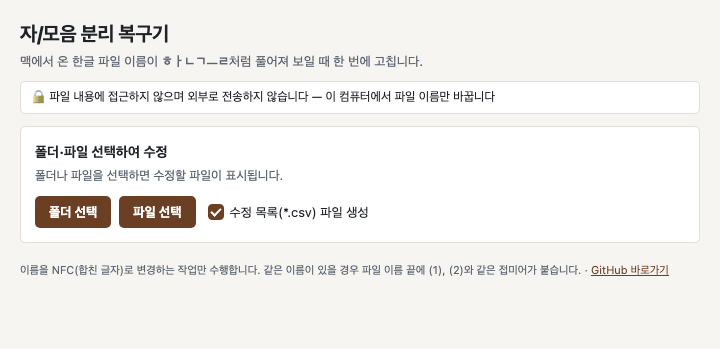
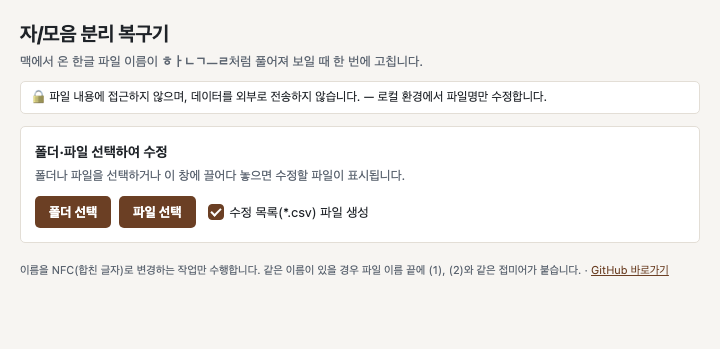
윈도우 프로그램 두 번째 피드백: 끌어다 놓기, 수정 전 저장 경로 줄 숨김 버그, 표 머리글 As is/To be/Status
- 버그: .csv-line의 display:flex가 hidden 속성을 덮어 수정 전부터 보였다 → [hidden] 규칙. 줄은 표 아래·버튼 위로
- 창에 파일·폴더 여러 개 끌어다 놓기(DragAndDrop.EnableFileDrop + runtime.OnFileDrop), 끌어 오는 동안 안내
- core.PlanFiles → PlanPaths(폴더는 안쪽과 자신까지), App.PreviewPaths/FixPaths. CSV는 첫 항목이 있는 폴더에
- 폴더 선택 창 제목에 "안의 파일은 선택한 뒤 목록에 표시됩니다"
- 문구 수정, As is 칸 글자 -2px, 버튼 줄 왼쪽 5px

Changed region(s): [[0.2444, 0.2579, 0.7639, 0.3152], [0.1833, 0.4871, 0.5806, 0.5158]]

diff --git a/web/app.js b/web/app.js
@@ -186,21 +186,34 @@ const inWails = typeof window.go !== "undefined";
 const goApp = () => window.go.main.App;
 let makeCSV = false; // "수정 목록(*.csv) 파일 생성" — 프로그램이 설정 파일에 기억한다
 
-async function wailsPick(kind) {
-  let picked;
-  try {
-    picked = kind === "folder" ? await goApp().ChooseFolder() : await goApp().ChooseFiles();
-  } catch (e) {
-    alert(`${kind === "folder" ? "폴더" : "파일"}를 열지 못했습니다: ` + e);
-    return;
+// kind: "folder"(폴더 선택) | "files"(파일 선택) | "drop"(창에 끌어다 놓기 — dropped에 경로 목록)
+async function wailsPick(kind, dropped) {
+  let picked = dropped;
+  if (!picked) {
+    try {
+      picked = kind === "folder" ? await goApp().ChooseFolder() : await goApp().ChooseFiles();
+    } catch (e) {
+      alert(`${kind === "folder" ? "폴더" : "파일"}를 열지 못했습니다: ` + e);
+      return;
+    }
   }
   if (!picked || picked.length === 0) return; // 취소
-  const first = kind === "folder" ? picked : picked[0];
+  const folder = kind === "folder";
+  const first = folder ? picked : picked[0];
   const sep = first.includes("\\") ? "\\" : "/";
-  const root = kind === "folder" ? picked : "";
-  const rel = (dir) => (root && dir.length > root.length ? dir.slice(root.length + 1) + sep : "");
+  // 표에 보일 경로: 폴더 선택이면 그 폴더 기준, 끌어다 놓은 폴더 안쪽이면 "그 폴더\…", 그 밖은 이름만
+  const bases = folder ? [picked] : picked;
+  const rel = (dir) => {
+    for (const b of bases) {
+      if (dir === b || dir.startsWith(b + sep)) {
+        const from = folder ? b.length + 1 : b.lastIndexOf(sep) + 1;
+        return dir.length >= from ? dir.slice(from) + sep : "";
+      }
+    }
+    return "";
+  };
   const fixPath = (p) => p.split(sep).map((s) => fixName(s).fixed).join(sep);
-  const plan = (await (kind === "folder" ? goApp().Preview(picked) : goApp().PreviewFiles(picked))) || [];
+  const plan = (await (folder ? goApp().Preview(picked) : goApp().PreviewPaths(picked))) || [];
   const items = plan.map((r) => ({ key: r.Dir + sep + r.From, prefix: fixPath(rel(r.Dir)), from: rel(r.Dir) + r.From }));
   items.forEach((it, i) => (it.to = it.prefix + plan[i].To));
   job = {
@@ -208,7 +221,7 @@ async function wailsPick(kind) {
     run: async () => {
       let res;
       try {
-        res = await (kind === "folder" ? goApp().FixAll(picked, makeCSV) : goApp().FixFiles(picked, makeCSV));
+        res = await (folder ? goApp().FixAll(picked, makeCSV) : goApp().FixPaths(picked, makeCSV));
       } catch (e) {
         $("summary").textContent = "수정하지 못했습니다: " + e;
         return;
@@ -230,22 +243,32 @@ async function wailsPick(kind) {
       }
     },
   };
-  const where = kind === "folder" ? `폴더: ${picked}` : `선택한 파일 ${picked.length}개 중`;
+  const where = folder ? `폴더: ${picked}` : `${kind === "drop" ? "끌어다 놓은" : "선택한"} 항목 ${picked.length}개 중`;
   show(items, items.length ? `수정할 파일 ${items.length}개 (${where})` : EMPTY);
 }
 
 // ── 연결 ───────────────────────────────────────────────────────────────
 if (inWails) {
   document.body.classList.add("app");
-  $("privacy").textContent = "🔒 파일 내용에 접근하지 않으며 외부로 전송하지 않습니다 — 이 컴퓨터에서 파일 이름만 바꿉니다";
+  $("privacy").textContent = "🔒 파일 내용에 접근하지 않으며, 데이터를 외부로 전송하지 않습니다. — 로컬 환경에서 파일명만 수정합니다.";
   $("mode-folder").hidden = false;
   $("mode-zip").hidden = true;
   $("folder-title").textContent = "폴더·파일 선택하여 수정";
-  $("folder-desc").textContent = "폴더나 파일을 선택하면 수정할 파일이 표시됩니다.";
+  $("folder-desc").textContent = "폴더나 파일을 선택하거나 이 창에 끌어다 놓으면 수정할 파일이 표시됩니다.";
   $("pick-app-files").hidden = false;
   $("csv-option").hidden = false;
   $("pick-folder").addEventListener("click", () => wailsPick("folder"));
   $("pick-app-files").addEventListener("click", () => wailsPick("files"));
+  // 창에 파일·폴더를 끌어다 놓기(여러 개). 경로는 Wails가 넘겨준다(main.go DragAndDrop.EnableFileDrop)
+  if (window.runtime && window.runtime.OnFileDrop) {
+    window.runtime.OnFileDrop((x, y, paths) => wailsPick("drop", paths), false);
+  }
+  let dragDepth = 0;
+  const isFiles = (e) => e.dataTransfer && [...e.dataTransfer.types].includes("Files");
+  const dragEnd = () => { dragDepth = 0; document.body.classList.remove("dragging"); };
+  window.addEventListener("dragenter", (e) => { if (isFiles(e)) { dragDepth++; document.body.classList.add("dragging"); } });
+  window.addEventListener("dragleave", (e) => { if (isFiles(e) && --dragDepth <= 0) dragEnd(); });
+  window.addEventListener("drop", dragEnd);
   goApp().GetSettings().then((s) => { makeCSV = !!(s && s.MakeCSV); $("make-csv").checked = makeCSV; }).catch(() => {});
   $("make-csv").addEventListener("change", (e) => {
     makeCSV = e.target.checked;

diff --git a/web/index.html b/web/index.html
@@ -50,7 +50,8 @@
       border: solid var(--accent-ink); border-width: 0 2px 2px 0; transform: rotate(45deg); }
     .check input:focus-visible { outline: 2px solid var(--accent); outline-offset: 2px; }
     .csv-line { display: flex; align-items: center; gap: 10px; background: var(--card); border: 1px solid var(--line);
-      border-radius: 5px; padding: 6px 6px 6px 12px; margin: 0 0 10px; font-size: 14px; }
+      border-radius: 5px; padding: 6px 6px 6px 12px; margin: 10px 0 0; font-size: 14px; }
+    .csv-line[hidden] { display: none; } /* display:flex가 hidden 속성을 덮지 않게 */
     .csv-line span { flex: 1; min-width: 0; word-break: break-all; color: var(--sub); }
     .csv-line b { color: var(--ink); font-weight: 400; }
     button.icon { flex: none; margin-left: auto; background: transparent; border: 1px solid var(--line); color: var(--ink);
@@ -64,10 +65,11 @@
     th { color: var(--sub); font-weight: 700; white-space: nowrap; }
     tr:last-child td { border-bottom: 0; }
     .from { color: var(--sub); }
+    td.from { font-size: calc(1em - 2px); }
     .st-done { color: var(--ok); font-weight: 700; } .st-skip { color: var(--warn); font-weight: 700; }
     .st-err { color: var(--err); font-weight: 700; }
     td.st { white-space: nowrap; }
-    #actions { margin-top: 14px; }
+    #actions { margin-top: 14px; padding-left: 5px; }
     footer { margin-top: 40px; font-size: 13px; color: var(--sub); }
     footer a { color: var(--accent); }
     /* 윈도우 프로그램(Wails) 안: 창이 작으니 글자·여백을 줄인다(2026-10-16 사용자 피드백 — 글자 약 2/3, 버튼 높이 3/4) */
@@ -88,6 +90,11 @@
     body.app th, body.app td { padding: 6px 10px; }
     body.app #actions { margin-top: 10px; }
     body.app footer { margin-top: 18px; font-size: 11px; }
+    /* 창에 파일을 끌어 오면 놓을 수 있다는 것을 보여 준다 */
+    #drop-hint { display: none; position: fixed; inset: 8px; z-index: 10; border: 2px dashed var(--accent); border-radius: 5px;
+      background: color-mix(in srgb, var(--bg) 97%, transparent); color: var(--ink); font-weight: 700;
+      place-items: center; text-align: center; pointer-events: none; }
+    body.dragging #drop-hint { display: grid; }
   </style>
 </head>
 <body>
@@ -121,15 +128,15 @@
 
   <section id="result">
     <p id="summary"></p>
+    <div class="table-wrap">
+      <table>
+        <thead><tr><th>As is</th><th>To be</th><th>Status</th></tr></thead>
+        <tbody id="rows"></tbody>
+      </table>
+    </div>
     <div class="csv-line" id="csv-line" hidden>
       <span>원본 이름 저장 경로: <b id="csv-path"></b></span>
       <button id="open-csv" class="icon" title="폴더 열기" aria-label="폴더 열기">📂</button>
-    </div>
-    <div class="table-wrap">
-      <table>
-        <thead><tr><th>입력된 파일</th><th>수정된 파일</th><th>상태</th></tr></thead>
-        <tbody id="rows"></tbody>
-      </table>
     </div>
     <div id="actions" class="row">
       <button id="fix-all">수정</button>
@@ -137,6 +144,7 @@
     </div>
   </section>
 
+  <div id="drop-hint">여기에 놓으면 수정할 파일이 표시됩니다</div>
   <footer>이름을 NFC(합친 글자)로 변경하는 작업만 수행합니다. 같은 이름이 있을 경우 파일 이름 끝에 (1), (2)와 같은 접미어가 붙습니다.
     · <a href="https://github.com/jwkim1421/hangul-name-fixer">GitHub 바로가기</a></footer>
 </main>

diff --git a/desktop/app.go b/desktop/app.go
@@ -39,12 +39,14 @@ type Settings struct {
 
 var (
 	errNoFolder = errors.New("수정할 폴더를 먼저 선택하세요")
-	errNoFiles  = errors.New("수정할 파일을 먼저 선택하세요")
+	errNoFiles  = errors.New("수정할 파일을 먼저 선택하거나 끌어다 놓으세요")
 )
 
 // ChooseFolder는 폴더 선택 창을 띄운다. 취소하면 "".
+// 윈도우 폴더 선택 창은 파일을 보여 주지 않아, 고른 뒤 목록에 나온다는 것을 제목에 적는다.
 func (a *App) ChooseFolder() (string, error) {
-	return runtime.OpenDirectoryDialog(a.ctx, runtime.OpenDialogOptions{Title: "수정할 폴더를 선택하세요"})
+	return runtime.OpenDirectoryDialog(a.ctx, runtime.OpenDialogOptions{
+		Title: "수정할 폴더를 선택하세요 — 안의 파일은 선택한 뒤 목록에 표시됩니다"})
 }
 
 // ChooseFiles는 파일 선택 창(여러 개 선택 가능)을 띄운다. 취소하면 빈 목록.
@@ -60,12 +62,12 @@ func (a *App) Preview(root string) ([]core.Rename, error) {
 	return core.Plan(root)
 }
 
-// PreviewFiles는 고른 파일 중 바꿀 이름 목록을 돌려준다.
-func (a *App) PreviewFiles(paths []string) ([]core.Rename, error) {
+// PreviewPaths는 고르거나 끌어다 놓은 파일·폴더에서 바꿀 이름 목록을 돌려준다.
+func (a *App) PreviewPaths(paths []string) ([]core.Rename, error) {
 	if len(paths) == 0 {
 		return nil, errNoFiles
 	}
-	return core.PlanFiles(paths), nil
+	return core.PlanPaths(paths), nil
 }
 
 // FixAll은 폴더 안의 이름을 고친다. makeCSV면 그 폴더에 수정목록_YYYYMMDD_HHMMSS.csv를 남긴다.
@@ -80,12 +82,13 @@ func (a *App) FixAll(root string, makeCSV bool) (FixResult, error) {
 	return apply(plan, root, makeCSV), nil
 }
 
-// FixFiles는 고른 파일들의 이름을 고친다. CSV는 첫 파일이 있는 폴더에 남긴다.
-func (a *App) FixFiles(paths []string, makeCSV bool) (FixResult, error) {
+// FixPaths는 고르거나 끌어다 놓은 파일·폴더의 이름을 고친다. 여러 폴더에서 왔어도 CSV는
+// 첫 번째 항목이 있는 폴더에 남긴다(그 폴더는 이름이 바뀌지 않는다).
+func (a *App) FixPaths(paths []string, makeCSV bool) (FixResult, error) {
 	if len(paths) == 0 {
 		return FixResult{}, errNoFiles
 	}
-	return apply(core.PlanFiles(paths), filepath.Dir(paths[0]), makeCSV), nil
+	return apply(core.PlanPaths(paths), filepath.Dir(filepath.Clean(paths[0])), makeCSV), nil
 }
 
 func apply(plan []core.Rename, dir string, makeCSV bool) FixResult {

diff --git a/core/fix.go b/core/fix.go
@@ -41,26 +41,41 @@ func Plan(root string) ([]Rename, error) {
 		return nil
 	})
 	// 깊은 곳부터 바꿔야 부모 폴더 이름이 바뀌어도 자식 경로가 유효하다
-	sort.SliceStable(plan, func(i, j int) bool {
-		return strings.Count(plan[i].Dir, string(os.PathSeparator)) > strings.Count(plan[j].Dir, string(os.PathSeparator))
-	})
+	sortDeepestFirst(plan)
 	return plan, err
 }
 
-// PlanFiles는 고른 파일들 중 이름을 고칠 것만 모은다(파일 선택 — 부모 폴더 이름은 건드리지 않는다).
-func PlanFiles(paths []string) []Rename {
+// PlanPaths는 고르거나 끌어다 놓은 항목에서 고칠 이름을 모은다. 파일은 그 이름만,
+// 폴더는 안쪽(Plan)과 폴더 자신의 이름까지. 같은 항목은 한 번만, 깊은 곳부터.
+func PlanPaths(paths []string) []Rename {
 	var plan []Rename
 	seen := map[string]bool{}
-	for _, p := range paths {
-		if seen[p] {
-			continue
-		}
-		seen[p] = true
-		if fixed, changed := FixName(filepath.Base(p)); changed {
-			plan = append(plan, Rename{Dir: filepath.Dir(p), From: filepath.Base(p), To: fixed, Status: "pending"})
+	add := func(r Rename) {
+		if k := filepath.Join(r.Dir, r.From); !seen[k] {
+			seen[k] = true
+			plan = append(plan, r)
 		}
 	}
+	for _, p := range paths {
+		p = filepath.Clean(p)
+		if info, err := os.Stat(p); err == nil && info.IsDir() {
+			inner, _ := Plan(p)
+			for _, r := range inner {
+				add(r)
+			}
+		}
+		if fixed, changed := FixName(filepath.Base(p)); changed {
+			add(Rename{Dir: filepath.Dir(p), From: filepath.Base(p), To: fixed, Status: "pending"})
+		}
+	}
+	sortDeepestFirst(plan)
 	return plan
+}
+
+func sortDeepestFirst(plan []Rename) {
+	sort.SliceStable(plan, func(i, j int) bool {
+		return strings.Count(plan[i].Dir, string(os.PathSeparator)) > strings.Count(plan[j].Dir, string(os.PathSeparator))
+	})
 }
 
 var numbered = regexp.MustCompile(`^(.*) \((\d+)\)$`)

diff --git a/core/fix_test.go b/core/fix_test.go
@@ -116,20 +116,35 @@ func TestUniqueName(t *testing.T) {
 	}
 }
 
-// 파일 선택: 고른 파일 중 이름을 고칠 것만, 같은 파일을 두 번 골라도 한 번만
-func TestPlanFiles(t *testing.T) {
+// 파일 선택·끌어다 놓기: 고른 파일은 그 이름만, 고른 폴더는 안쪽(자식 먼저)과 폴더 자신의 이름까지.
+// 같은 것을 두 번 넣어도 한 번만.
+func TestPlanPaths(t *testing.T) {
 	root := t.TempDir()
 	a := filepath.Join(root, nfd("보고서.txt"))
 	b := filepath.Join(root, "ok.txt")
+	dir := filepath.Join(root, nfd("사진"))
 	os.WriteFile(a, []byte("x"), 0o644)
 	os.WriteFile(b, []byte("y"), 0o644)
-	plan := PlanFiles([]string{a, b, a})
-	if len(plan) != 1 || plan[0].Dir != root || plan[0].To != "보고서.txt" || plan[0].Status != "pending" {
-		t.Fatalf("plan = %+v", plan)
+	os.MkdirAll(dir, 0o755)
+	os.WriteFile(filepath.Join(dir, nfd("여행.jpg")), []byte("z"), 0o644)
+	plan := PlanPaths([]string{a, b, a, dir})
+	if len(plan) != 3 || plan[0].To != "여행.jpg" || plan[0].Dir != dir {
+		t.Fatalf("폴더 안쪽이 먼저여야 한다: %+v", plan)
 	}
-	res := Apply(plan, "")
-	if res[0].Status != "done" {
-		t.Fatalf("apply: %+v", res)
+	got := map[string]bool{}
+	for _, r := range plan {
+		got[r.Dir+"|"+r.To] = r.Status == "pending"
+	}
+	if !got[root+"|보고서.txt"] || !got[root+"|사진"] {
+		t.Fatalf("고른 파일과 폴더 자신의 이름도 고쳐야 한다: %+v", plan)
+	}
+	for _, r := range Apply(plan, "") {
+		if r.Status != "done" {
+			t.Fatalf("apply: %+v", r)
+		}
+	}
+	if _, err := os.Stat(filepath.Join(root, "사진", "여행.jpg")); err != nil {
+		t.Fatal("고친 경로가 없다:", err)
 	}
 }
 

diff --git a/desktop/app_test.go b/desktop/app_test.go
@@ -64,11 +64,11 @@ func TestFixFilesRenamesOnlyChosenFiles(t *testing.T) {
 	os.WriteFile(a, []byte("x"), 0o644)
 	os.WriteFile(b, []byte("y"), 0o644)
 	app := testApp(t)
-	plan, err := app.PreviewFiles([]string{a})
+	plan, err := app.PreviewPaths([]string{a})
 	if err != nil || len(plan) != 1 {
 		t.Fatalf("preview files = %+v, %v", plan, err)
 	}
-	res, err := app.FixFiles([]string{a}, true)
+	res, err := app.FixPaths([]string{a}, true)
 	if err != nil {
 		t.Fatal(err)
 	}
@@ -84,8 +84,24 @@ func TestFixRejectsEmptyChoice(t *testing.T) {
 	if _, err := testApp(t).FixAll("", true); err == nil {
 		t.Fatal("폴더를 고르지 않았으면 오류여야 한다")
 	}
-	if _, err := testApp(t).FixFiles(nil, true); err == nil {
+	if _, err := testApp(t).FixPaths(nil, true); err == nil {
 		t.Fatal("파일을 고르지 않았으면 오류여야 한다")
+	}
+}
+
+// 여러 폴더에서 끌어다 놓아도 수정 목록은 첫 번째 항목이 있는 폴더에 남긴다(2026-10-16 사용자 피드백)
+func TestFixPathsWritesCSVNextToFirstItem(t *testing.T) {
+	one, two := t.TempDir(), t.TempDir()
+	a := filepath.Join(two, norm.NFD.String("가.txt"))
+	b := filepath.Join(one, norm.NFD.String("나.txt"))
+	os.WriteFile(a, []byte("x"), 0o644)
+	os.WriteFile(b, []byte("y"), 0o644)
+	res, err := testApp(t).FixPaths([]string{a, b}, true)
+	if err != nil {
+		t.Fatal(err)
+	}
+	if filepath.Dir(res.CSV) != two || len(csvFiles(one)) != 0 {
+		t.Fatalf("CSV = %q, want in %q", res.CSV, two)
 	}
 }
 

diff --git a/desktop/main.go b/desktop/main.go
@@ -17,7 +17,7 @@ func main() {
 
 	// Create application with options
 	err := wails.Run(&options.App{
-		Title:  "자/모음 분리 복구기",
+		Title: "자/모음 분리 복구기",
 		// 시작 화면은 작게 띄우고, 결과 표가 나오면 화면(app.js)이 창을 키운다.
 		// 이보다 작게 줄이면 버튼과 문구가 밀려나 최소 크기를 둔다(2026-10-16 사용자 피드백)
 		Width:     720,
@@ -29,6 +29,8 @@ func main() {
 		},
 		BackgroundColour: &options.RGBA{R: 247, G: 245, B: 242, A: 1},
 		OnStartup:        app.startup,
+		// 파일·폴더를 창에 끌어다 놓으면 전체 경로를 화면(app.js, runtime.OnFileDrop)에 넘긴다
+		DragAndDrop: &options.DragAndDrop{EnableFileDrop: true},
 		Bind: []interface{}{
 			app,
 		},

diff --git a/docs/trials/윈도우프로그램_시행착오.md b/docs/trials/윈도우프로그램_시행착오.md
@@ -35,3 +35,10 @@
 - **확인 방법:** 앱 화면은 여전히 직접 누를 수 없어, 가짜 `window.go`·`runtime.WindowGetSize/SetSize`를 넣은 브라우저에서 시작 → 폴더 선택 → 수정 → 📂 → 체크 해제 저장 → 처음으로(창 크기 복귀) → 파일 선택(수정할 파일 없음)을 720×349·600×329, 라이트·다크로 확인했다(캡처: `img/2026-10-16_feedback_start.png`, `img/2026-10-16_feedback_done.png`). (1) 붙이기의 실제 파일 시험은 NFD·NFC가 같은 파일인 맥에서는 안 되므로 윈도우 CI에서 돈다.
 - **걸린 시간:** 피드백 받고 반영까지 약 1시간
 - **글감:** 예 — "만든 사람 말"과 "쓰는 사람 말"이 다르다(되돌리기 목록 → 수정 목록). 연재의 실사용 피드백 편 재료.
+
+## 2026-10-16 — 두 번째 실행 피드백: 숨긴 줄이 보였고, 폴더 창에는 파일이 안 보였다
+- **버그 — 숨긴 "원본 이름 저장 경로" 줄이 수정 전부터 보였다:** `hidden` 속성으로 숨겼는데 CSS에서 `.csv-line { display: flex }`를 줬다. 작성자 CSS의 `display`가 브라우저 기본 `[hidden] { display: none }`을 이긴다. 가짜 `window.go` 시험은 "수정 후 보이는지"만 봤지 "수정 전 숨는지"는 보지 않아 놓쳤다. `.csv-line[hidden] { display: none }`을 더하고 시험에 "수정 전에는 숨긴다"를 넣었다. 줄 위치도 표 아래·버튼 위로 옮겼다(요약 바로 아래에 표).
+- **폴더 선택 창에 파일이 안 보여 당황스럽다:** 윈도우 폴더 선택 창은 폴더만 보여 주는 OS 창이라 바꿀 수 없다. 대신 창 제목에 "안의 파일은 선택한 뒤 목록에 표시됩니다"를 적고, **창에 끌어다 놓기**를 더했다(Wails `DragAndDrop.EnableFileDrop` + `runtime.OnFileDrop` — 전체 경로가 온다). 끌어 오는 동안 "여기에 놓으면…" 안내를 띄운다.
+- **끌어다 놓기는 폴더도 섞여 온다:** 파일 선택용 `PlanFiles`를 `PlanPaths`로 넓혔다 — 파일은 그 이름만, 폴더는 안쪽(자식 먼저)과 폴더 자신의 이름까지, 겹치면 한 번만. 여러 폴더에서 온 항목이면 수정 목록 CSV는 **첫 번째 항목이 있는 폴더**에 남긴다(그 폴더는 이름이 바뀌지 않아 CSV 경로가 틀어지지 않는다).
+- **문구·모양:** 안내 문구 "파일 내용에 접근하지 않으며, 데이터를 외부로 전송하지 않습니다. — 로컬 환경에서 파일명만 수정합니다.", 표 머리글 As is / To be / Status, As is 칸 글자 −2px, 버튼 줄 왼쪽 여백 5px.
+- **글감:** 예 — "숨겼는데 보인다"(`hidden` vs `display`)는 흔한 함정. 시험이 '보여야 할 때'만 보고 '숨어야 할 때'를 안 봤다.
